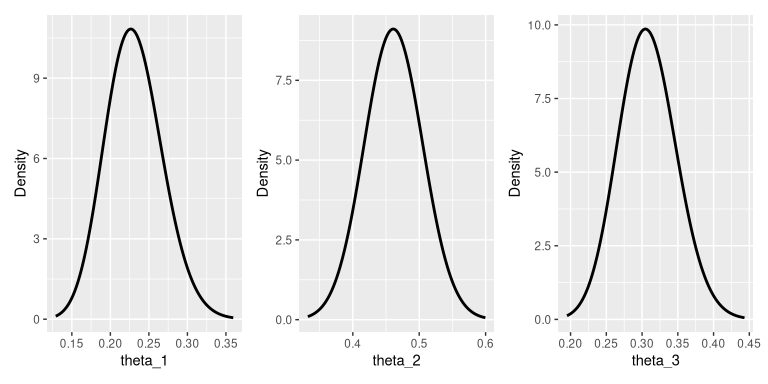
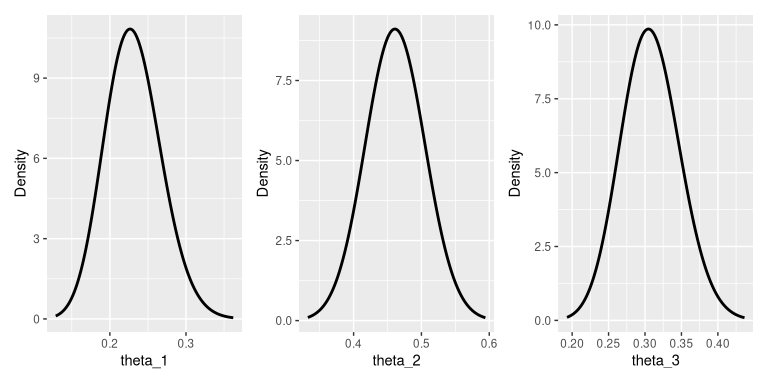
update docs

diff --git a/README.md b/README.md
@@ -46,14 +46,14 @@ summary(post)
 #>    plus standard error of the mean:
 #> 
 #>          Mean      SD  Naive SE Time-series SE
-#> mu     3.0574 0.03625 0.0011463      0.0011463
-#> sigma2 0.1931 0.02300 0.0007272      0.0007272
+#> mu     3.0564 0.03643 0.0011520      0.0011566
+#> sigma2 0.1922 0.02177 0.0006885      0.0007266
 #> 
 #> 2. Quantiles for each variable:
 #> 
-#>          2.5%    25%    50%   75% 97.5%
-#> mu     2.9872 3.0331 3.0558 3.082 3.132
-#> sigma2 0.1527 0.1773 0.1911 0.207 0.244
+#>         2.5%    25%    50%   75%  97.5%
+#> mu     2.984 3.0315 3.0573 3.082 3.1255
+#> sigma2 0.154 0.1771 0.1909 0.205 0.2382
 plot(post)
 #> Warning: `aes_string()` was deprecated in ggplot2 3.0.0.
 #> ℹ Please use tidy evaluation idioms with `aes()`.
@@ -72,9 +72,9 @@ In some cases, the posterior can be calculated exactly.
 post <- estimate_proportions(c(20, 50, 30), alpha = c(10, 10, 10))
 summary(post)
 #>          mean       var  2.5% 97.5%
-#> theta_1 0.231 -4.52e-05 0.163 0.306
-#> theta_2 0.462 -3.16e-05 0.377 0.547
-#> theta_3 0.308 -4.07e-05 0.232 0.390
+#> theta_1 0.231 -4.52e-05 0.164 0.306
+#> theta_2 0.462 -3.16e-05 0.375 0.546
+#> theta_3 0.308 -4.07e-05 0.231 0.390
 plot(post)
 #> Warning: Using `size` aesthetic for lines was deprecated in ggplot2 3.4.0.
 #> ℹ Please use `linewidth` instead.
@@ -95,7 +95,7 @@ x <- cbind(iris$Sepal.Width)
 post <- gibbs_lm(y, x, 100)
 
 par(mfrow = c(1, 2))
-plot(post$posterior$beta.1)
+plot(post$posterior[,1:2])
 plot(x[,1], y)
 apply(post$posterior[,1:2], 1,
   function(b)
